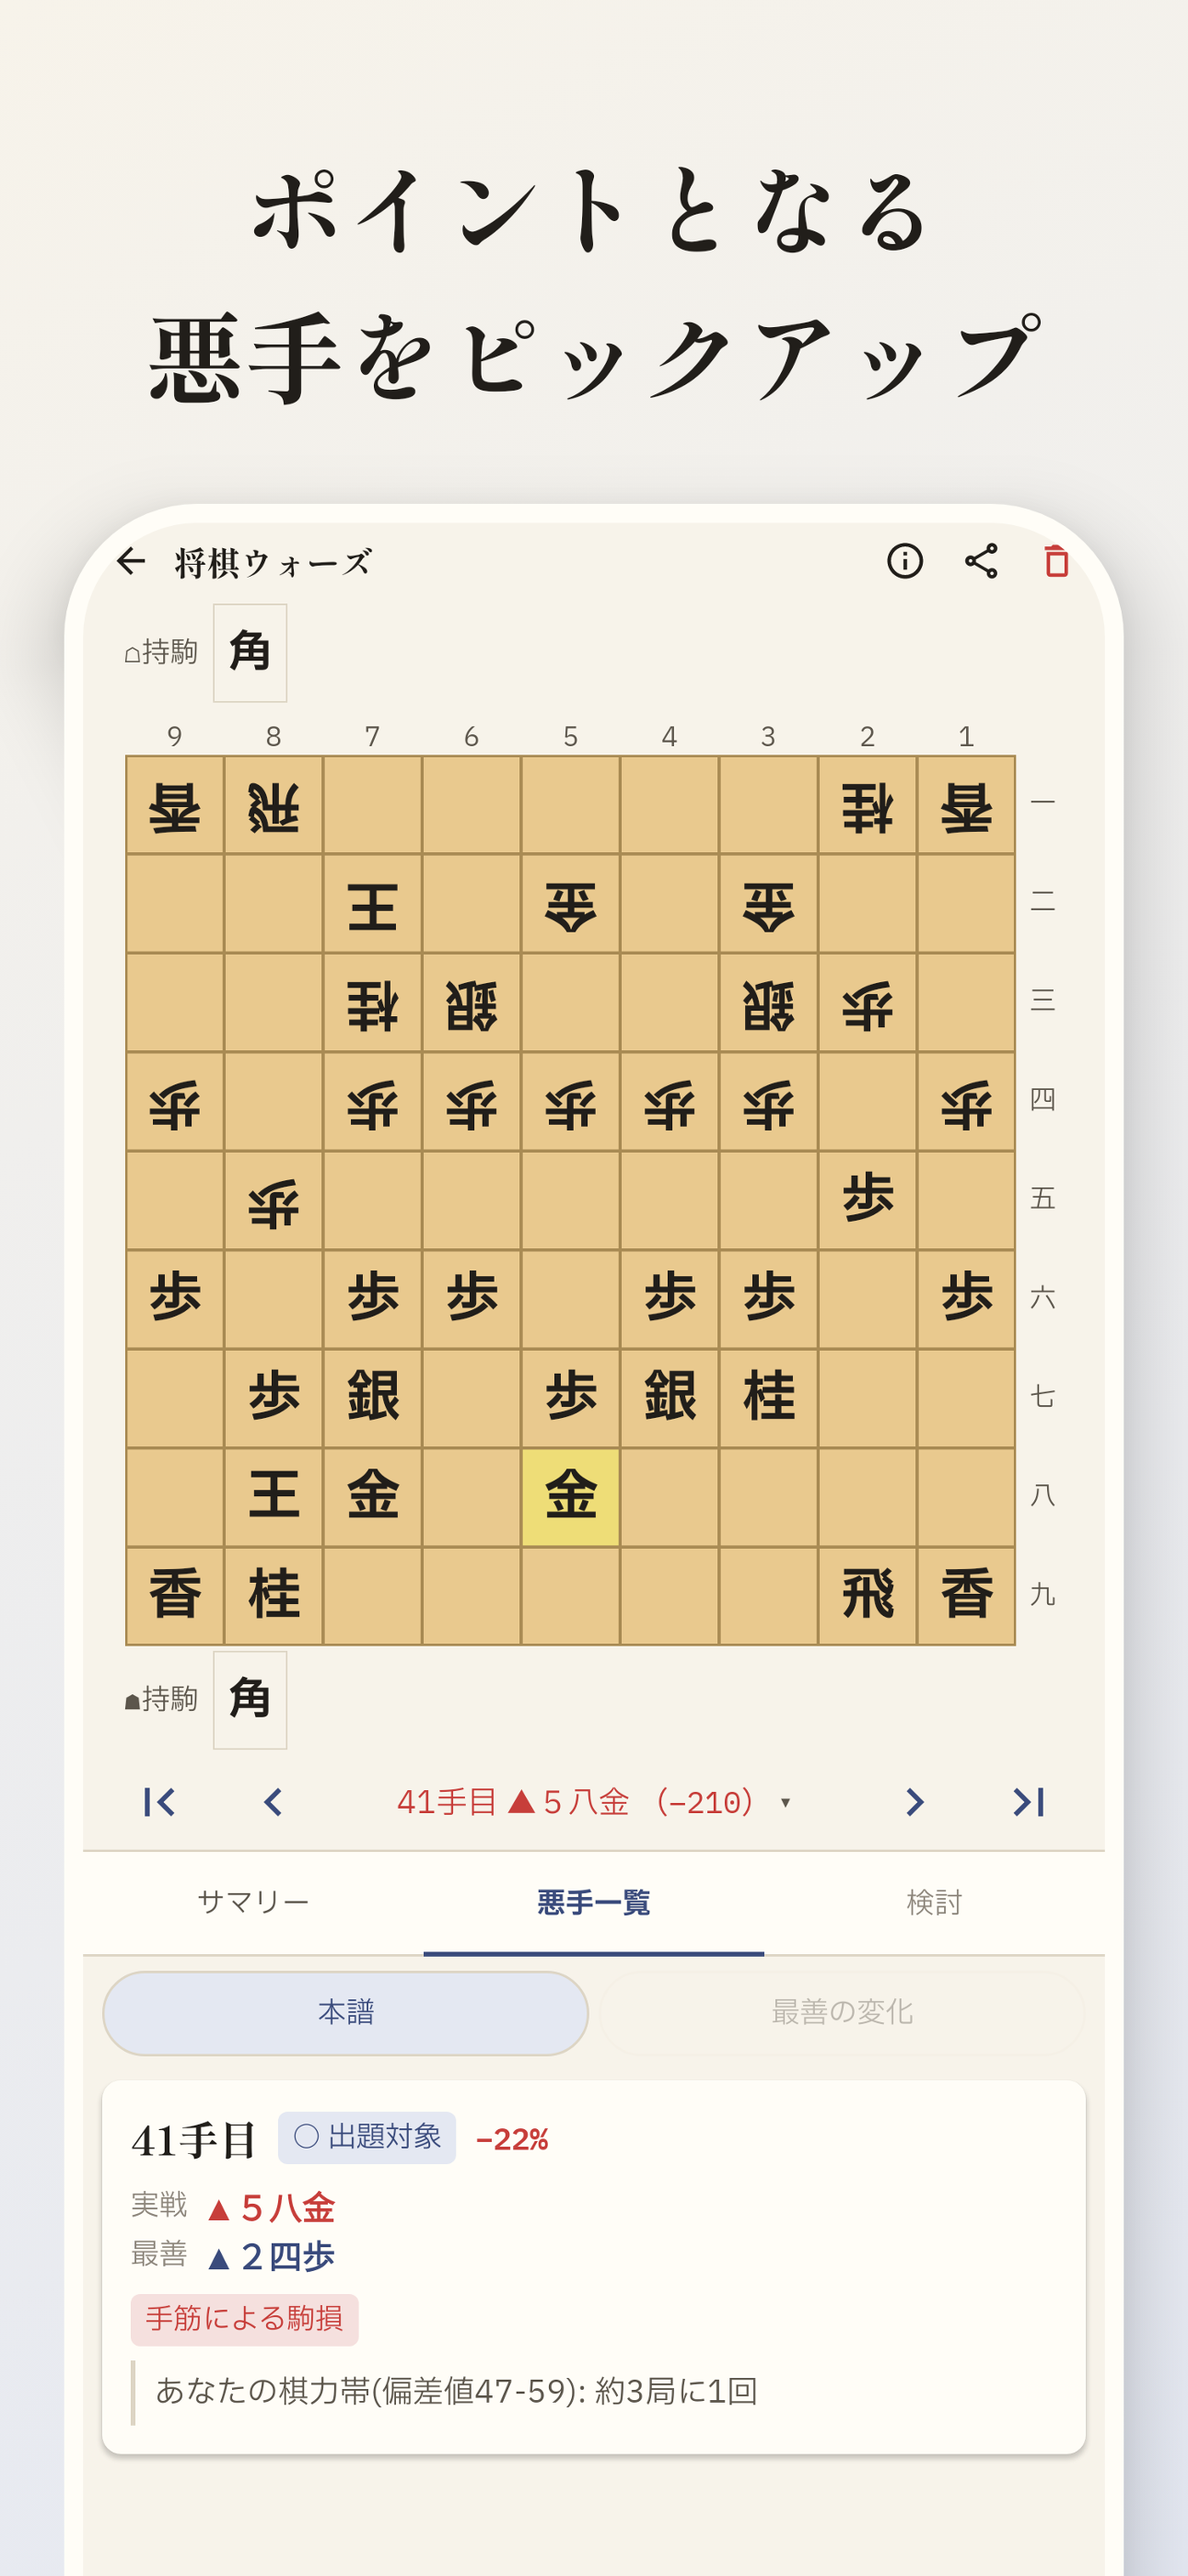
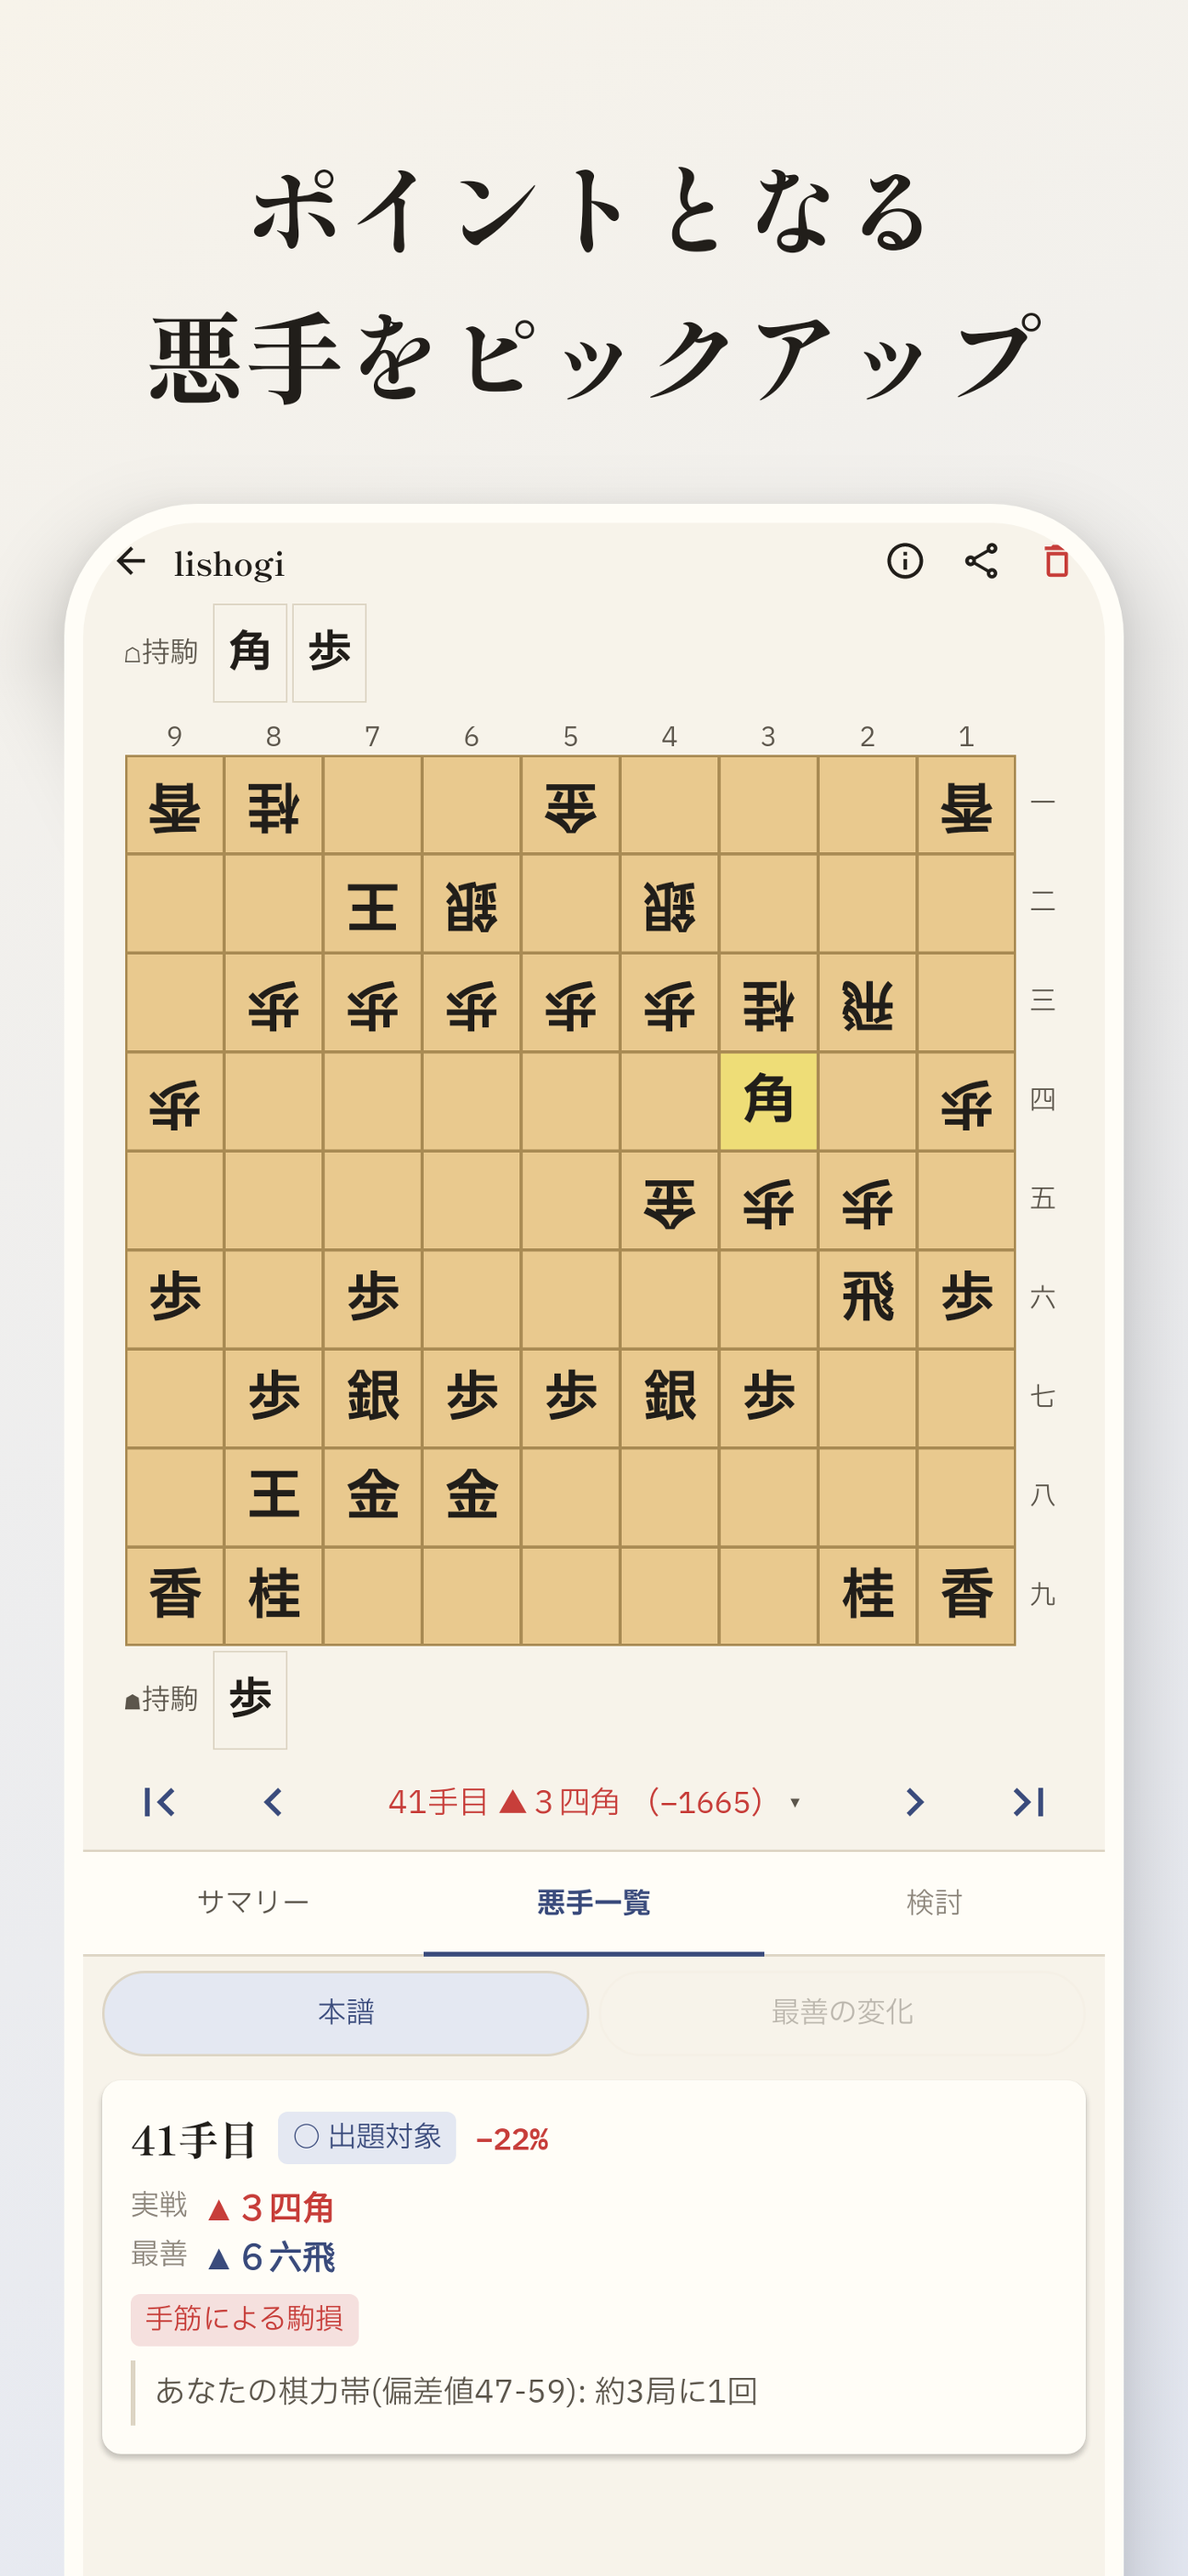
実解析データで両サイズのストア画像を生成する
掲載画像の形勢と盤面を同じ棋譜へ揃え、架空の評価曲線を除く。6.5インチ枠も生成し、対局者名は個人名を含まない表記にする。

diff --git a/app/androidApp/src/test/kotlin/dev/miyado/shogisupplement/ui/StoreImageTest.kt b/app/androidApp/src/test/kotlin/dev/miyado/shogisupplement/ui/StoreImageTest.kt
@@ -27,10 +27,12 @@ import androidx.compose.ui.unit.sp
 import com.github.takahirom.roborazzi.ExperimentalRoborazziApi
 import com.github.takahirom.roborazzi.RoborazziOptions
 import com.github.takahirom.roborazzi.captureRoboImage
-import dev.miyado.shogisupplement.blunder.PositionEvalDisplay
 import dev.miyado.shogisupplement.board.ShogiBoard
 import dev.miyado.shogisupplement.board.ShogiMove
 import dev.miyado.shogisupplement.db.BlunderRecord
+import dev.miyado.shogisupplement.db.EngineMatchRate
+import dev.miyado.shogisupplement.text.AppStrings
+import kotlin.math.roundToInt
 import dev.miyado.shogisupplement.db.GameRecord
 import dev.miyado.shogisupplement.db.PositionEvalRow
 import dev.miyado.shogisupplement.drill.DrillJudge
@@ -43,10 +45,6 @@ import dev.miyado.shogisupplement.ui.home.HomeScreen
 import dev.miyado.shogisupplement.ui.home.StrengthCardData
 import dev.miyado.shogisupplement.ui.home.TodaysDrillHint
 import dev.miyado.shogisupplement.ui.report.ReportScreen
-import dev.miyado.shogisupplement.ui.report.StudyCandidate
-import dev.miyado.shogisupplement.ui.report.StudyEvalState
-import dev.miyado.shogisupplement.ui.report.StudyOrigin
-import dev.miyado.shogisupplement.ui.report.StudyState
 import dev.miyado.shogisupplement.ui.theme.LightBg
 import dev.miyado.shogisupplement.ui.theme.LightInk
 import dev.miyado.shogisupplement.ui.theme.LightPrimarySoft
@@ -57,6 +55,11 @@ import java.awt.RenderingHints
 import java.awt.image.BufferedImage
 import java.io.File
 import javax.imageio.ImageIO
+import kotlinx.serialization.json.Json
+import kotlinx.serialization.json.int
+import kotlinx.serialization.json.jsonArray
+import kotlinx.serialization.json.jsonObject
+import kotlinx.serialization.json.jsonPrimitive
 import org.junit.Assume.assumeTrue
 import org.junit.Before
 import org.junit.Test
@@ -91,7 +94,9 @@ class StoreImageTest {
         captureRoboImage(filePath = path, roborazziOptions = storeRoborazziOptions) {
             StoreCard(caption = caption, screen = screen)
         }
-        finalizeImage(File(path))
+        val source = ImageIO.read(File(path))
+        finalizeImage(source, File(path), OutputWidthPx, OutputHeightPx)
+        finalizeImage(source, File("../iosApp/fastlane/screenshots/ja/${fileName}_6.5.png"), 1284, 2778)
     }
 
     /**
@@ -99,14 +104,13 @@ class StoreImageTest {
      * Why not 提出枠のまま描く: 端末の中身を実寸（[PhoneWidth]）で組み立てたいので、
      * 台紙は端末より大きい。App Store Connect は透過を含む画像も受け付けない。
      */
-    private fun finalizeImage(file: File) {
-        val source = ImageIO.read(file)
-        val output = BufferedImage(OutputWidthPx, OutputHeightPx, BufferedImage.TYPE_INT_RGB)
+    private fun finalizeImage(source: BufferedImage, file: File, width: Int, height: Int) {
+        val output = BufferedImage(width, height, BufferedImage.TYPE_INT_RGB)
         output.createGraphics().apply {
             setRenderingHint(RenderingHints.KEY_INTERPOLATION, RenderingHints.VALUE_INTERPOLATION_BICUBIC)
             setRenderingHint(RenderingHints.KEY_RENDERING, RenderingHints.VALUE_RENDER_QUALITY)
             setRenderingHint(RenderingHints.KEY_ANTIALIASING, RenderingHints.VALUE_ANTIALIAS_ON)
-            drawImage(source, 0, 0, OutputWidthPx, OutputHeightPx, null)
+            drawImage(source, 0, 0, width, height, null)
             dispose()
         }
         ImageIO.write(output, "png", file)
@@ -234,19 +238,21 @@ class StoreImageTest {
     @Composable
     private fun StoreReport(
         showBlunderList: Boolean = false,
-        studyState: StudyState? = null,
     ) {
+        val matchRate = checkNotNull(EngineMatchRate.compute(storeMoves, storePositionEvals, "sente"))
         ReportScreen(
             game = storeGames.first(),
             reports = listOf(storeBlunder),
             flip = false,
-            strengthDisplayText = "58 ±9",
-            matchRateDisplayText = "64%(32/50)",
-            blunderRateDisplayText = "9%(3/33)",
             positionEvals = storePositionEvals,
+            matchRateDisplayText = AppStrings.matchRateValue(
+                (matchRate.rate * 100).roundToInt(), matchRate.matched, matchRate.sampleMoves,
+            ),
+            blunderRateDisplayText = AppStrings.blunderRateValue(
+                (100.0 / matchRate.sampleMoves).roundToInt(), 1, matchRate.sampleMoves,
+            ),
             initialPlyIndex = 41,
             initialBodyModeList = showBlunderList,
-            studyState = studyState,
             onBack = {},
         )
     }
@@ -344,21 +350,19 @@ private val storeRoborazziOptions = RoborazziOptions(
  * 盤が初期局面のまま写る。
  */
 private val storeMoves: List<String> =
-    KifParser().parse(File("../data/kifu_samples/wars_game1.kif").readText()).moves
+    KifParser().parse(File("../data/kifu_samples/miyado_game1.kif").readText()).moves
 
 private const val STORE_BLUNDER_PLY = 41
 
-/** ▲２四歩から△２四歩。どちらもこの局面で合法な手にする。 */
-private const val STORE_BEST_USI = "2e2d"
-private const val STORE_BEST_REPLY_USI = "2c2d"
+private const val STORE_BEST_USI = "2f6f"
 
 private val storeGames = listOf(
     GameRecord(
         id = 1L,
-        fileName = "wars_20260910.kif",
+        fileName = "lishogi_20260910.kif",
         contentHash = "store1",
         moveCount = storeMoves.size.toLong(),
-        senteName = "miyado",
+        senteName = "あなた",
         goteName = "相手",
         analyzedAt = 1_789_000_000L,
         rating = 1750L,
@@ -368,7 +372,7 @@ private val storeGames = listOf(
         // 「自分の悪手の直後に自分の形勢が良くなる」グラフになる。
         userSide = "sente",
         uploadedAt = 1_789_000_100L,
-        sourcePlace = "wars",
+        sourcePlace = "lishogi",
         gameWinner = "gote",
         endReason = "投了",
     ),
@@ -377,7 +381,7 @@ private val storeGames = listOf(
         fileName = "wars_20260909.kif",
         contentHash = "store2",
         moveCount = 94L,
-        senteName = "miyado",
+        senteName = "あなた",
         goteName = "相手",
         analyzedAt = 1_788_900_000L,
         rating = 1750L,
@@ -392,7 +396,7 @@ private val storeGames = listOf(
         fileName = "lishogi_20260908.kif",
         contentHash = "store3",
         moveCount = 71L,
-        senteName = "miyado",
+        senteName = "あなた",
         goteName = "相手",
         analyzedAt = 1_788_800_000L,
         rating = 1750L,
@@ -409,6 +413,30 @@ private val storeSfenBeforeBlunder: String = ShogiBoard().run {
     storeMoves.take(STORE_BLUNDER_PLY - 1).forEach { push(ShogiMove.fromUsi(it)) }
     toSfen()
 }
+
+private val storeEvalRecords =
+    File("../analysis/src/jvmTest/resources/evals_game1.ndjson").readLines()
+        .filter { it.isNotBlank() }
+        .map { Json.parseToJsonElement(it).jsonObject }
+
+// USIのスコアは手番視点だが、保存済み評価値は先手視点で扱う。
+private val storePositionEvals: List<PositionEvalRow> =
+    storeEvalRecords.mapIndexed { index, record ->
+            val ply = record.getValue("ply").jsonPrimitive.int
+            check(record.getValue("file").jsonPrimitive.content == "miyado_game1.kif")
+            check(ply == index)
+            val score = record.getValue("score").jsonObject
+            val sign = if (ply % 2 == 0) 1 else -1
+            PositionEvalRow(
+                ply = ply,
+                scoreCp = score["cp"]?.jsonPrimitive?.int?.times(sign),
+                mateIn = score["mate"]?.jsonPrimitive?.int?.times(sign),
+                bestUsi = record.getValue("pv").jsonArray.firstOrNull()?.jsonPrimitive?.content,
+            )
+        }.also {
+            check(it.size == storeMoves.size + 1)
+            check(it[STORE_BLUNDER_PLY - 1].bestUsi == STORE_BEST_USI)
+        }
 
 private val storeBlunder = BlunderRecord(
     id = 1L,
@@ -428,40 +456,8 @@ private val storeBlunder = BlunderRecord(
     note = "あなたの棋力帯(偏差値47-59): 約3局に1回",
     problemType = "手筋 (両取り・素抜き) の問題",
     priority = 2.9978349024480666,
-    bestPv = "$STORE_BEST_USI $STORE_BEST_REPLY_USI",
-    punishPv = "${storeMoves[STORE_BLUNDER_PLY]} ${storeMoves[STORE_BLUNDER_PLY + 1]}",
-    cpBefore = 240L,
-)
-
-/** [STORE_BLUNDER_PLY] 手目で一気に傾き、そこから戻り切らない曲線。 */
-private val storePositionEvals: List<PositionEvalRow> = storeMoves.indices.map { ply ->
-    val cp = if (ply < STORE_BLUNDER_PLY) 40 + ply * 5 else -210 - (ply - STORE_BLUNDER_PLY) * 5
-    PositionEvalRow(ply = ply, scoreCp = cp, mateIn = null, bestUsi = storeMoves[ply])
-}
-
-// 最善手を指した先を検討している状態。候補手は手番（後手）の応手で、
-// 評価は自分（先手）視点のまま出る。
-private val storeStudyState = StudyState(
-    baseSfen = storeSfenBeforeBlunder,
-    moves = listOf(STORE_BEST_USI),
-    displayLine = listOf(STORE_BEST_USI, STORE_BEST_REPLY_USI),
-    chipEvalStates = listOf(
-        StudyEvalState.Value(PositionEvalDisplay.EvalLabel(text = "+240", sign = 1), userCp = 240),
-    ),
-    origin = StudyOrigin(label = "41手目 ▲５八金（−210）", userCp = -210),
-    originIsBestPv = false,
-    originPlyIndex = STORE_BLUNDER_PLY,
-    originSelectedIdx = null,
-    originAbsolutePly = STORE_BLUNDER_PLY,
-    flip = false,
-    branchFlags = listOf(false, false),
-    evalState = StudyEvalState.Value(
-        PositionEvalDisplay.EvalLabel(text = "+240", sign = 1),
-        userCp = 240,
-        candidates = listOf(
-            StudyCandidate("2c2d", "△２四歩", PositionEvalDisplay.EvalLabel(text = "+240", sign = 1)),
-            StudyCandidate("3c2d", "△２四銀", PositionEvalDisplay.EvalLabel(text = "+310", sign = 1)),
-            StudyCandidate("8e8f", "△８六歩", PositionEvalDisplay.EvalLabel(text = "+520", sign = 1)),
-        ),
-    ),
+    bestPv = STORE_BEST_USI,
+    punishPv = storeEvalRecords[STORE_BLUNDER_PLY].getValue("pv").jsonArray
+        .joinToString(" ") { it.jsonPrimitive.content },
+    cpBefore = storePositionEvals[STORE_BLUNDER_PLY - 1].scoreCp!!.toLong(),
 )

diff --git a/app/docs/release-checklist.md b/app/docs/release-checklist.md
@@ -68,7 +68,8 @@ UIが変わったリリースでは掲載画像も更新する。
 cd app && ./gradlew :androidApp:recordRoborazziDebug --tests "*StoreImageTest*" -Pshogi.storeImages=true --rerun-tasks
 ```
 
-- 書き出し先は `app/iosApp/fastlane/screenshots/ja/` の6枚（1290x2796・6.9インチ枠）。
+- 書き出し先は `app/iosApp/fastlane/screenshots/ja/`。6.9インチ枠（1290x2796）と
+  6.5インチ枠（1284x2778・ファイル名末尾 `_6.5`）を各6枚、同じ見出し・画面から生成する。
   差分を目で確認してから準備コミットに含める。
 - 1枚は「見出し＋端末モック」の組み。見出しの文言・画面の中身の数値はどちらも
   `StoreImageTest.kt` にある。見出しは2行までに収める（はみ出すと端末に被る）。
